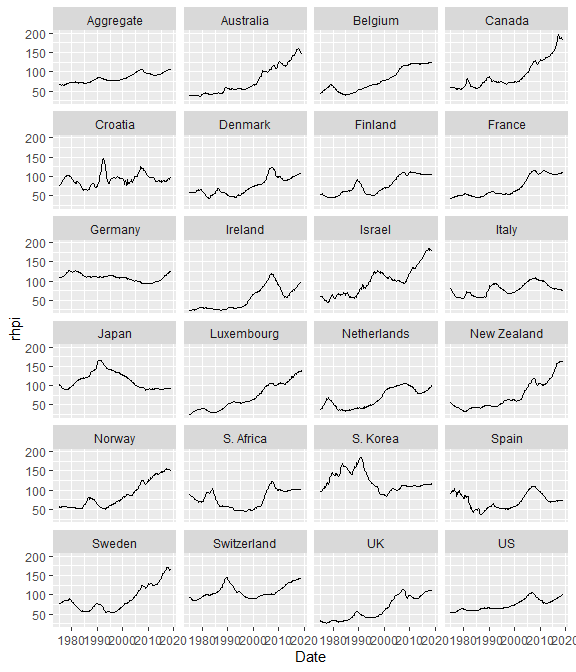
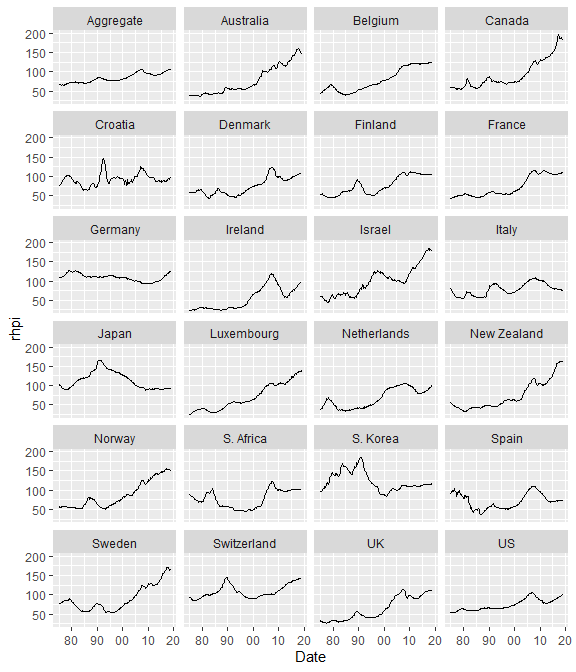
on my way on submitting

Changed region(s): [[0.0938, 0.9375, 0.6562, 0.9688], [0.6875, 0.9375, 0.875, 0.9688], [0.9062, 0.9375, 1.0, 0.9688]]

diff --git a/README.md b/README.md
@@ -108,6 +108,7 @@ raw_data <- download_raw()
 
 ggplot(raw_data, aes(Date, rhpi)) + 
   geom_line(size = 0.7) + 
+  scale_x_date(date_labels = "%y") +
   facet_wrap(~country, ncol = 4) 
 ```
 
@@ -123,13 +124,8 @@ exuber_data %>%
   ggplot() + 
   geom_line(aes(Date, value), size = 0.7) +
   geom_line(aes(Date, crit), col = "red", size = 0.7) +
+  scale_x_date(date_labels = "%y") +
   facet_wrap(~country, ncol = 4)
 ```
 
 <img src="man/figures/README-exuber-ind-1.png" width="100%" />
-
------
-
-Please note that the ‘ihpdr’ project is released with a [Contributor
-Code of Conduct](.github/CODE_OF_CONDUCT.md). By contributing to this
-project, you agree to abide by its terms.

diff --git a/cran-comments.md b/cran-comments.md
@@ -13,6 +13,11 @@
 
 ## R CMD check results
 
+* checking CRAN incoming feasibility ... NOTE
+Maintainer: 'Kostas Vasilopoulos <k.vasilopoulo@gmail.com>'
+
+New submission
+
 0 errors | 0 warnings | 1 note
 
 * This is a new release.
